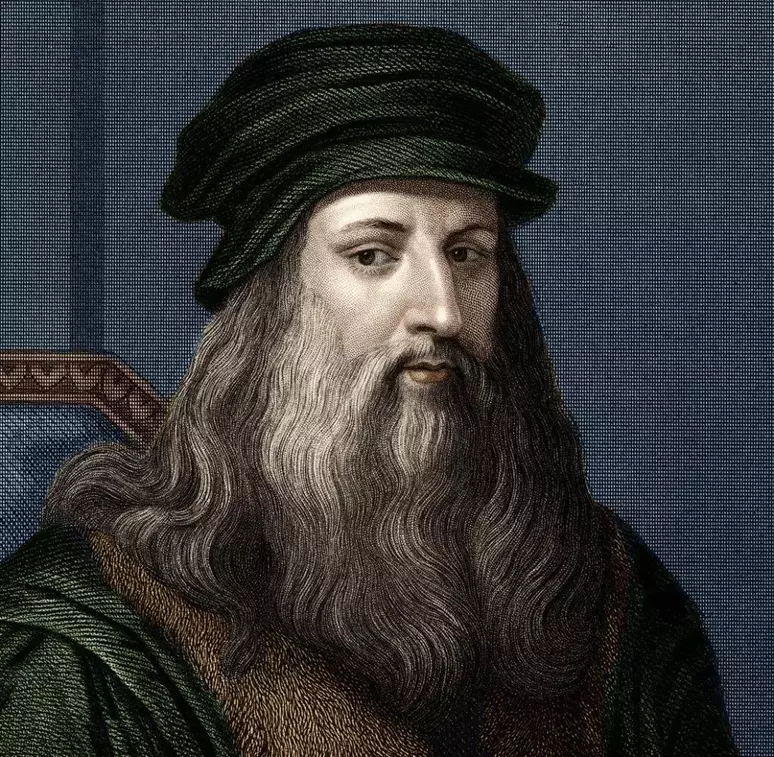
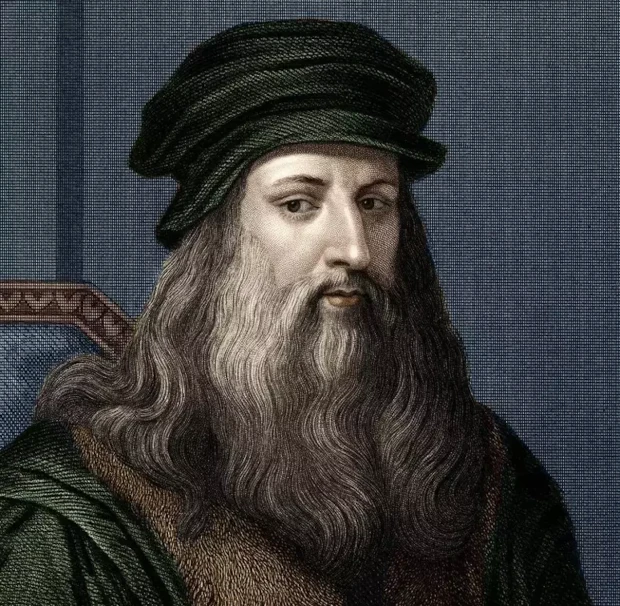
update

diff --git a/desafios/teste/davinci.html b/desafios/teste/davinci.html
@@ -27,7 +27,13 @@
         
         <p><strong>Leonardo da Vinci</strong>, nascido em 15 de abril de 1452, em Anchiano, Itália, foi um polímata do <a href="https://www.google.com/search?q=Renascimento&rlz=1C1PNFE_enBR1084BR1093&oq=Renascimento&gs_lcrp=EgZjaHJvbWUyDAgAEEUYORixAxiABDIHCAEQABiABDINCAIQABiDARixAxiABDIKCAMQABixAxiABDIHCAQQABiABDIHCAUQABiABDIHCAYQABiABDIHCAcQABiABDIHCAgQABiABDIHCAkQABiPAqgCALACAQ&sourceid=chrome&ie=UTF-8" target="_blank">Renascimento</a>, que era conhecido por sua experiência em diversas áreas, como pintura, escultura, engenharia, anatomia e arquitetura. Apesar da falta de educação formal precoce, a sua curiosidade insaciável e aguçada capacidade de observação levaram-no a tornar-se uma das figuras mais influentes na arte e na <strong>ciência</strong> ocidentais. No entanto, ele acabou recebendo treinamento do renomado artista florentino <a href="https://www.google.com/search?q=Andrea+del+Verrocchio&rlz=1C1PNFE_enBR1084BR1093&oq=Andrea+del+Verrocchio&gs_lcrp=EgZjaHJvbWUyDAgAEEUYORjjAhiABDIHCAEQLhiABDIHCAIQLhiABDIHCAMQABiABDIICAQQABgWGB4yCAgFEAAYFhgeMggIBhAAGBY" target="_blank">Andrea del Verrocchio</a>, onde <strong>Leonardo</strong> aprimorou suas habilidades como pintor e escultor.</p>
         
-        <img src="image/leonardo.webp" alt="Leonardo Da Vinci">
+        <picture>
+        <source
+            media="(max-width: 650px )" 
+            srcset="image/leonardo1.webp"
+        />   
+            <img src="image/leonardo.webp" alt="Leonardo Da Vinci">
+        </picture>
         
         <p>Na sua juventude, <strong>Da Vinci</strong> demonstrou um talento extraordinário para observação e experimentação, muitas vezes dissecando cadáveres para estudar a anatomia humana e esboçando as suas observações com notável precisão. Sua busca pelo conhecimento o impulsionou a explorar diversos assuntos, desde matemática e engenharia até botânica e geologia</p>
         
@@ -35,19 +41,37 @@
         
         <p>Durante esses primeiros estudos, o fascínio de <strong>Da Vinci</strong> pelo mundo natural entrou em foco e o levou a realizar extensas observações e experimentos. Ele dissecou cadáveres humanos e de animais para obter uma compreensão mais profunda da anatomia, documentando meticulosamente suas descobertas em esboços detalhados. O seu grande interesse pela mecânica do voo também surgiu durante este período, o que pode ser observado nos numerosos esboços e projetos de <strong>máquinas voadoras</strong>, mostrando a sua abordagem visionária à engenharia e <strong>invenção do voo</strong>. Estas primeiras obras de <strong>Da Vinci</strong> lançaram as bases para suas realizações posteriores. Sua ética de trabalho pessoal reflete sua busca incansável pelo conhecimento.</p>
         
-        <img src="image/human.jpg" alt="Leonardo estudos">
+            <picture>
+            <source
+                media="(max-width: 636px )" 
+                srcset="image/human1.jpg"
+            />   
+                <img src="image/human.jpg" alt="Leonardo Da Vinci">
+            </picture>
         
         <h2>AS INVENÇÕES</h2>
         
         <p>As invenções mais notáveis de <strong>Leonardo da Vinci</strong> abrangem uma ampla gama de campos, mostrando seu pensamento visionário e seu gênio inventivo. Entre seus designs mais famosos está o <strong>“ornitóptero”</strong>, uma <strong>máquina voadora</strong> inspirada na mecânica do voo dos pássaros. Embora nunca tenha sido totalmente realizado durante sua vida, seus esboços e planos detalhados lançaram as bases para conceitos modernos de aviação. Além disso, o seu projeto para o <strong>“parafuso aéreo”</strong>, um <strong>precursor do helicóptero</strong>, demonstrou a sua abordagem inovadora ao voo vertical, ilustrando a sua visão e compreensão da <a href="https://www.google.com/search?q=aerodin%C3%A2mica&rlz=1C1PNFE_enBR1084BR1093&oq=aerodin%C3%A2mica&gs_lcrp=EgZjaHJvbWUyCQgAEEUYORiABDIHCAEQABiABDIHCAIQABiABDIHCAMQABiABDIHCAQQABiABDIHCAUQABiABDIHCAYQABiABDIHCAcQABiABDIHCAgQABiABDIHCAkQABiABKgCCLACAQ&sourceid=chrome&ie=UTF-8" target="_blank">aerodinâmica</a>. Outra invenção notável atribuída a da Vinci é o <strong>“anemômetro”</strong>, um dispositivo usado para medir a velocidade e direção do vento.</p>
         
-        <img src="image/Vintage.jpg" alt="Leonardo invenções">
+            <picture>
+            <source
+                media="(max-width: 650px )" 
+                srcset="image/Vintage2.jpg"
+            />   
+                <img src="image/Vintage.jpg" alt="Leonardo Da Vinci">
+            </picture>
         
         <h2>SUAS ARTES</h2>
         
         <p>O legado artístico de <strong>Leonardo da Vinci</strong> é multifacetado, estendendo-se muito além da <strong>“Mona Lisa”</strong>. Uma de suas <strong>obras </strong>notáveis é <strong>“A Anunciação”</strong>, uma pintura que retrata o anúncio do anjo Gabriel à Virgem Maria sobre sua concepção divina. Esta <strong>obra-prima</strong> mostra o domínio de luz e sombra de Da Vinci, bem como sua capacidade de capturar sutilezas emocionais e simbolismo religioso com detalhes requintados.</p>
 
-        <img src="image/monalisa.jpg" alt="Mona Lisa">  
+            <picture>
+            <source
+                media="(max-width: 550px )" 
+                srcset="image/monalisa1.jpg"
+            />   
+                <img src="image/monalisa.jpg" alt="Leonardo Da Vinci">
+            </picture>  
                                                                                     
 
      <aside>
@@ -68,7 +92,13 @@
     
         <h2>A FALÊNCIA</h2>
 
-        <img src="image/leonardo-morte.jpg" alt="Leonardo falência"></img>
+            <picture>
+            <source
+                media="(max-width: 650px )" 
+                srcset="image/leonardo-morte1.jpg"
+            />   
+                <img src="image/leonardo-morte.jpg" alt="Leonardo Da Vinci">
+            </picture>
 
         <p>No entanto, em maio de 1519 d.C., aos 67 anos, <strong>Leonardo da Vinci </strong>faleceu, deixando um legado que perduraria pelos séculos seguintes. Após a sua morte, <strong>da Vinci</strong> foi sepultado na Capela de Saint-Hubert, no Castelo de Amboise, conforme seu pedido. No entanto, a localização exata do seu cemitério permaneceu um mistério durante séculos, até que foi redescoberto em 1863, durante as reformas da capela. Hoje, os visitantes podem prestar homenagem ao lendário polímata na Capela de Saint-Hubert, onde uma placa memorial comemora seu local de descanso final, homenageando suas profundas contribuições à <strong>arte</strong>, à <strong>ciência</strong> e à <strong>humanidade</strong>.</p>
     </article>

diff --git a/desafios/teste/style/style.css b/desafios/teste/style/style.css
@@ -70,15 +70,15 @@ header {
 
 header h1 {
   font-family: var(--fonte-histoica-1);
-  font-size: 3.2em;
+  font-size: 3.3em;
   font-weight: bolder;
-  padding: 20px 20px 5px 20px;
+  padding: 0px 10px 0px 10px;
 }
 
 header p {
   font-family: var(--fonte-destaque);
   font-size: 1.1em;
-  padding: 20px 20px 30px 20px;
+  padding: 20px 10px 30px 10px;
 }
 
 body {
@@ -98,17 +98,17 @@ main {
 }
 
 main img {
-  max-width: 460px;
-  min-width: 100px;
-  
-  margin:auto;
+  max-width: 600px;
+  min-width: 200px;
+  margin: auto;
   display: block;
+ 
 }
 
 main article h2 {
   color: var(--cor05);
   font-family: var(--fonte-histoica-2);
-  font-size: 1.2;
+  font-size: 1.4em;
   font-weight: 600;
   margin: 10px;
   margin-bottom: 0%;
@@ -121,7 +121,7 @@ main article p {
   text-align: justify;
   text-indent: 2em;
   padding: 5px 0px 5px 0px;
-  margin: 20px;
+  margin: 10px;
   line-height: 1.5em;
 }
 
@@ -149,12 +149,9 @@ aside{
   color: var(--cor05);
   font-family: var(--fonte-destaque);
   font-size: 0.90em;
-  margin: 50px auto;
-  margin-left: 80px;
-  margin-right: 80px;
+  margin: 50px 20px 40px 20px;
   padding: 20px;
-  padding-top: 0%;
-  padding-bottom: 0px;
+  padding-bottom: 0%;
   border-radius: 10px;
   box-shadow: var(--sombracaixa-f);
 }
